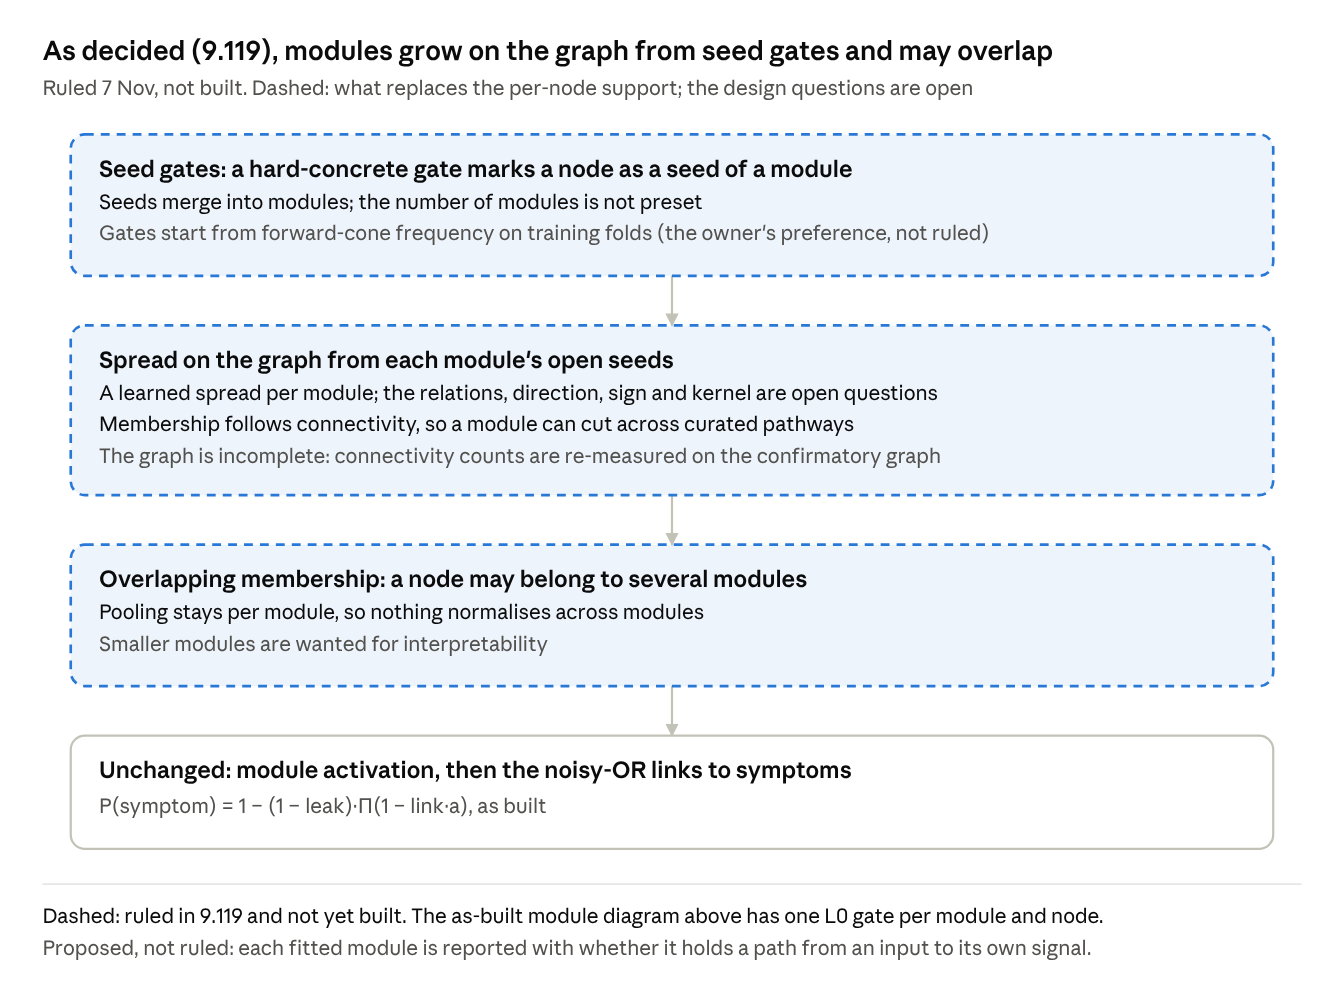
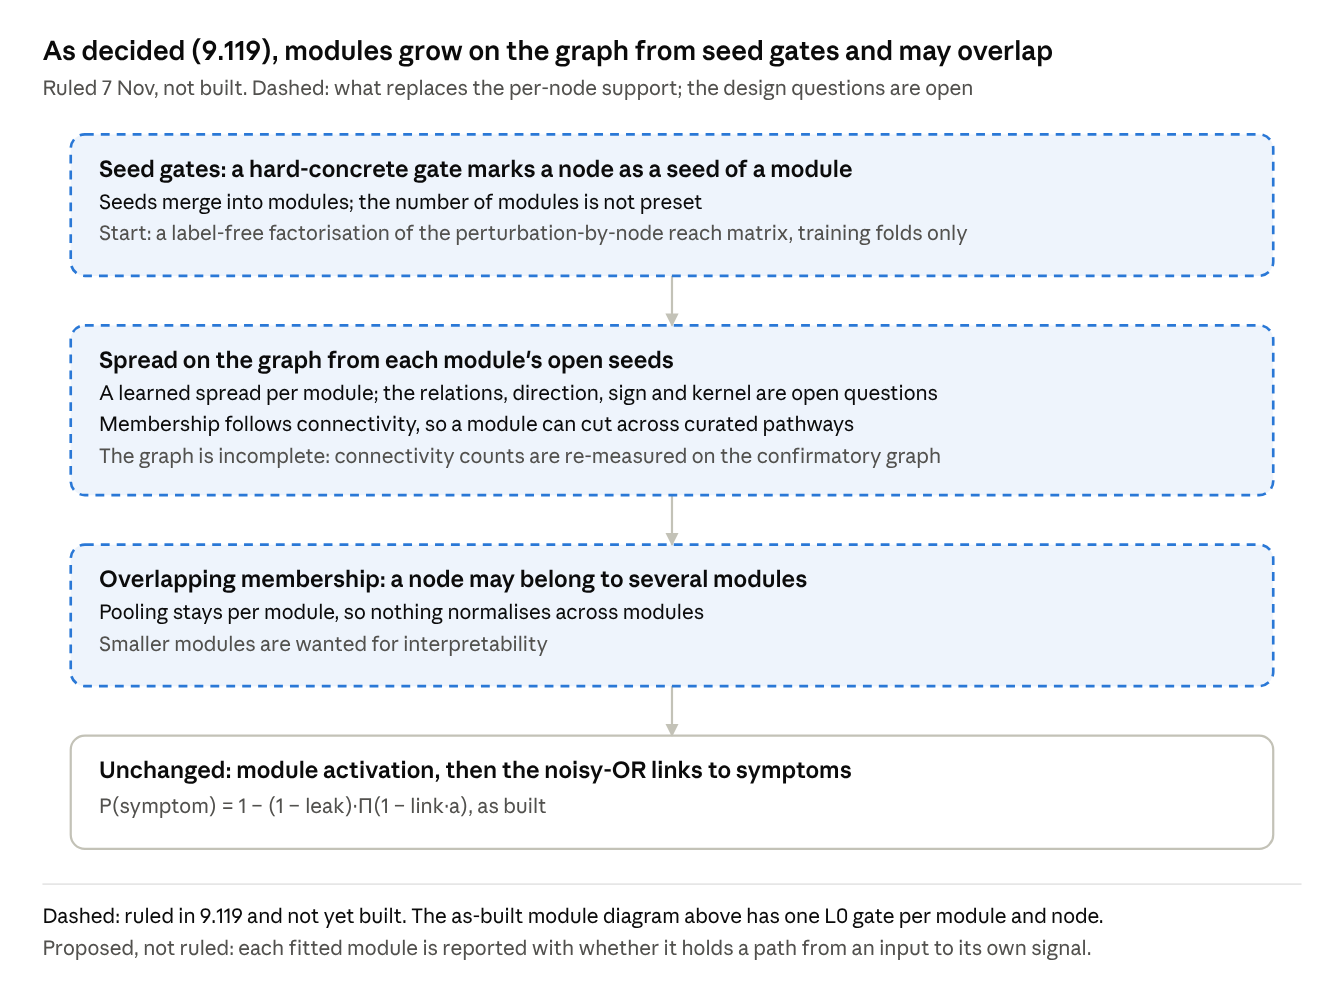
Regenerate the generated pages and re-stamp the module diagrams after 9.119
The as-decided module diagram (713638b8-497a) now gives the ruled start, a label-free
factorisation of the reach matrix on training folds, in place of the earlier preference; the
repository copy's image follows. The other three diagrams are unchanged.

Claude-Session: https://claude.ai/code/session_01RNHwqTkjjENH7yo98idnBU

Changed region(s): [[0.0625, 0.2161, 0.75, 0.247]]

diff --git a/docs/file_index.md b/docs/file_index.md
@@ -1,8 +1,8 @@
 # Every file under docs/ (generated by experiments/generate_file_index.py — do not edit by hand)
 
-Generated by `experiments/generate_file_index.py` on 2026-11-07 at commit 457f231b-dirty from git ls-files docs, configs/documentation_registry.json, the repository's Python and shell sources; do not edit by hand.
+Generated by `experiments/generate_file_index.py` on 2026-11-07 at commit a22d70c5-dirty from git ls-files docs, configs/documentation_registry.json, the repository's Python and shell sources; do not edit by hand.
 
-All 266 files git tracks under `docs/`, by kind. **This is the complete list; [docs/README.md](README.md) is the index of registered *documents* by topic**, and the register covers tracked Markdown only, so the files that are not Markdown appear here and nowhere else.
+All 267 files git tracks under `docs/`, by kind. **This is the complete list; [docs/README.md](README.md) is the index of registered *documents* by topic**, and the register covers tracked Markdown only, so the files that are not Markdown appear here and nowhere else.
 
 For a Markdown document the class is the register's, and says how far to trust it as a statement of the current state (`docs/documentation_process.md` defines them). For every other file the last column names the scripts and modules that mention its path. **That search is textual**: it finds a path written whole, in a default argument or a constant, and it does not find one assembled at run time, so an empty cell means no source names the path and not that nothing reads the file.
 
@@ -11,7 +11,7 @@ For a Markdown document the class is the register's, and says how far to trust i
 | Markdown documents | 196 |
 | Tables (CSV) | 16 |
 | Measurements and summaries (JSON) | 17 |
-| Figures (PNG) | 35 |
+| Figures (PNG) | 36 |
 | Bibliography | 1 |
 | Plain text | 1 |
 
@@ -261,7 +261,7 @@ The register holds 198 documents, of which 196 are under `docs/` and the rest ar
 | [rodent_readout_human_evidence_references.json](rodent_readout_human_evidence_references.json) | `experiments/map_rodent_readout_human_evidence.py` |
 | [untrained_symptom_degeneracy.json](untrained_symptom_degeneracy.json) | `experiments/label_review/untrained_symptom_degeneracy.py` |
 
-## Figures (PNG) (35)
+## Figures (PNG) (36)
 
 | file | named by |
 |---|---|
@@ -290,6 +290,7 @@ The register holds 198 documents, of which 196 are under `docs/` and the rest ar
 | [study_sheet_figures/07_robustness_arms.png](study_sheet_figures/07_robustness_arms.png) |  |
 | [study_sheet_figures/08_propagation.png](study_sheet_figures/08_propagation.png) |  |
 | [study_sheet_figures/09_modules.png](study_sheet_figures/09_modules.png) |  |
+| [study_sheet_figures/09b_modules_as_decided.png](study_sheet_figures/09b_modules_as_decided.png) |  |
 | [study_sheet_figures/10_curated_modules.png](study_sheet_figures/10_curated_modules.png) |  |
 | [study_sheet_figures/11_learned_module_names.png](study_sheet_figures/11_learned_module_names.png) |  |
 | [study_sheet_figures/12_parameter_count.png](study_sheet_figures/12_parameter_count.png) |  |

diff --git a/docs/decision_history.md b/docs/decision_history.md
@@ -1,8 +1,8 @@
 # Decision history (generated by experiments/generate_decision_history.py — do not edit by hand)
 
-Generated by `experiments/generate_decision_history.py` on 2026-11-07 at commit 457f231b-dirty from the git history of docs/open_decisions.md; do not edit by hand.
+Generated by `experiments/generate_decision_history.py` on 2026-11-07 at commit a22d70c5-dirty from the git history of docs/open_decisions.md; do not edit by hand.
 
-When each decision of `docs/open_decisions.md` was recorded and when it closed, read from the 277 versions of the log in the git history (plus the working tree when it differs from HEAD). The commit that first holds a row is the earliest the decision can have been recorded; a date written inside the row is the author's claim and is not read here. A closed decision keeps its id, struck through, so "dropped" means an id the log once carried and no longer does, which is the defect this file exists to show.
+When each decision of `docs/open_decisions.md` was recorded and when it closed, read from the 278 versions of the log in the git history (plus the working tree when it differs from HEAD). The commit that first holds a row is the earliest the decision can have been recorded; a date written inside the row is the author's claim and is not read here. A closed decision keeps its id, struck through, so "dropped" means an id the log once carried and no longer does, which is the defect this file exists to show.
 
 **Now:** 107 open, 65 closed, 2 dropped. 17 of the closed decisions were recorded and closed in the same commit, which is the recording lag the log's own header describes.
 

diff --git a/docs/registered_core.md b/docs/registered_core.md
@@ -1,6 +1,6 @@
 # The registered core (generated by experiments/generate_registered_core.py — do not edit by hand)
 
-Generated by `experiments/generate_registered_core.py` on 2026-11-07 at commit 457f231b-dirty from configs/registered_rules.json, docs/open_decisions.md, docs/preregistration.md; do not edit by hand.
+Generated by `experiments/generate_registered_core.py` on 2026-11-07 at commit a22d70c5-dirty from configs/registered_rules.json, docs/open_decisions.md, docs/preregistration.md; do not edit by hand.
 
 Every registered rule of this project, 12 of them, with the value in force, the reason the configuration gives for it, the decisions and amendment items its text names and the code that holds it. This is the short way into the registration: it restates `configs/registered_rules.json` and resolves its references, and it adds nothing of its own, so where it is thin the configuration is thin. The references are the ones the rule's own text names, which can include an item the rule replaced rather than the one that set it: `membrane_potential_build` names item 13 because item 35 superseded it.
 

diff --git a/docs/status.md b/docs/status.md
@@ -1,6 +1,6 @@
 # Status (generated by experiments/generate_status.py — do not edit by hand)
 
-Generated by `experiments/generate_status.py` on 2026-11-07 at commit 457f231b-dirty from data/releases/*/MANIFEST.json, configs/registered_rules.json, configs/documentation_registry.json, the git log; do not edit by hand.
+Generated by `experiments/generate_status.py` on 2026-11-07 at commit a22d70c5-dirty from data/releases/*/MANIFEST.json, configs/registered_rules.json, configs/documentation_registry.json, the git log; do not edit by hand.
 
 What is current in this repository, read from the release manifests, `configs/registered_rules.json`, the git history of the decision log and the document register. Nothing here describes a container, a session or a running job: that state is on a machine's disk (`bash scripts/resume_jobs.sh --status`), and a committed statement about it is stale the moment another machine reads it. The commit this page was generated at is in the stamp above; `git log -1` says where the code is now.
 

diff --git a/docs/README.md b/docs/README.md
@@ -1,6 +1,6 @@
 # Documentation (generated by experiments/generate_docs_index.py — do not edit by hand)
 
-Generated by `experiments/generate_docs_index.py` on 2026-11-07 at commit 457f231b-dirty from configs/documentation_registry.json, each registered document's first heading; do not edit by hand.
+Generated by `experiments/generate_docs_index.py` on 2026-11-07 at commit a22d70c5-dirty from configs/documentation_registry.json, each registered document's first heading; do not edit by hand.
 
 This project builds a signed, typed physiology graph (genes and the proteins they encode, metabolites and reactions, signalling, transcription, electrical and drug-mechanism layers, brain cell classes) and models how a perturbation, an allele of a gene or a drug, propagates through it to psychiatric symptom constructs, so that the learned mechanisms can serve as the basis of a new psychiatric nosology. The [repository README](../README.md) is the overview; this page is the map of the documents.
 

diff --git a/docs/amendment_history.md b/docs/amendment_history.md
@@ -1,6 +1,6 @@
 # Amendment history (generated by experiments/generate_amendment_history.py — do not edit by hand)
 
-Generated by `experiments/generate_amendment_history.py` on 2026-11-07 at commit 457f231b-dirty from the git log, configs/registered_rules.json; do not edit by hand.
+Generated by `experiments/generate_amendment_history.py` on 2026-11-07 at commit a22d70c5-dirty from the git log, configs/registered_rules.json; do not edit by hand.
 
 Every change to a registered rule since the baseline, taken from `Amends:` trailers in the git log. Edits to this file are overwritten by the next run; change a commit message, or add a trailer to a new commit, instead.
 
